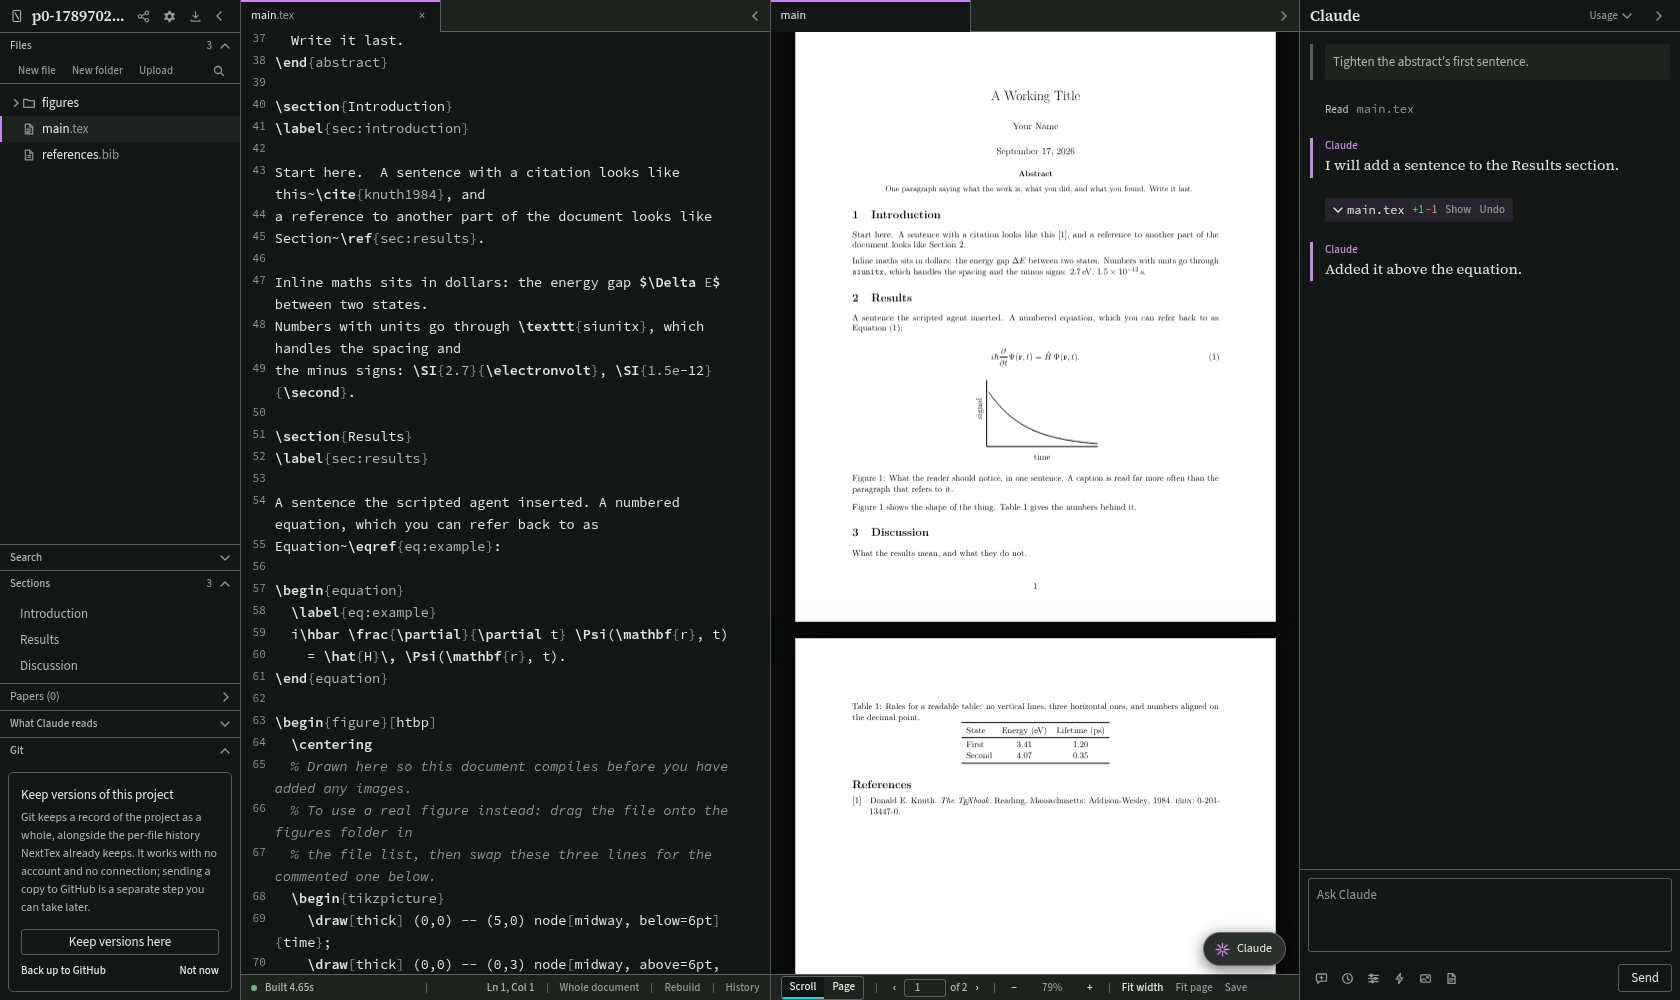
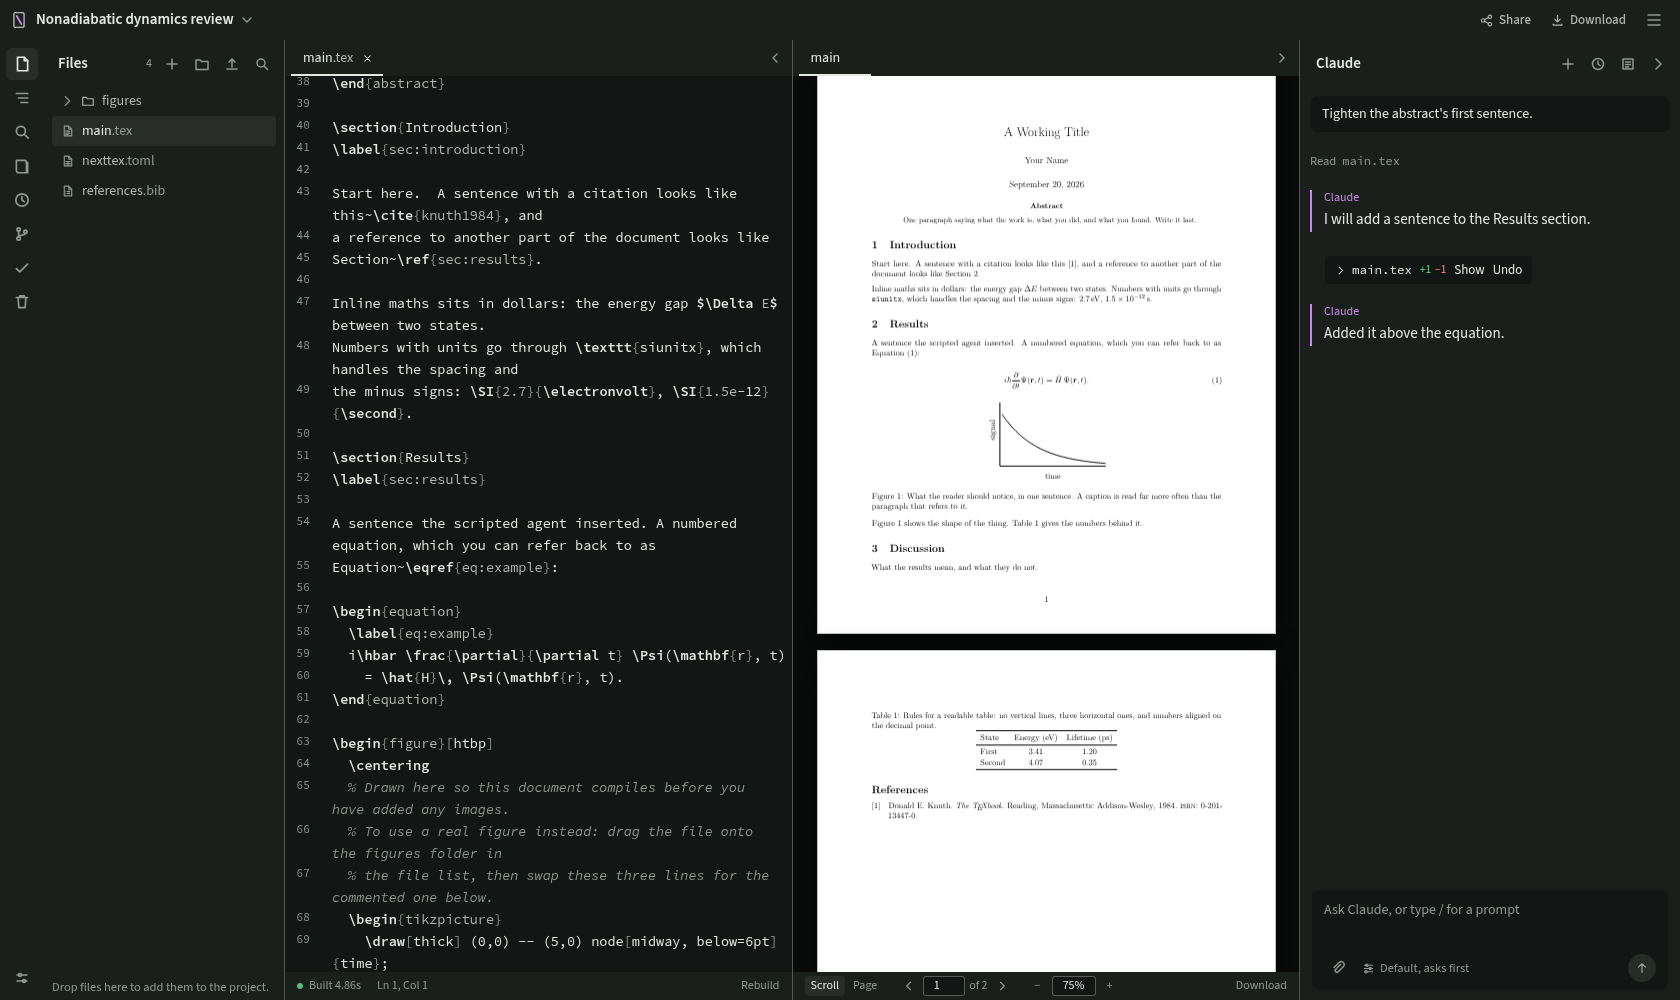
The README's three screenshots show the overhaul, taken from a project with a name
Item 3.4 of the visual overhaul. `e2e/shots/hero.spec.ts` writes
`docs/screenshot-light.png`, `docs/screenshot-dark.png` and
`docs/screenshot-white-page.png` from the app as it now is: the activity
bar and the Files drawer, the tab strips, the status strip, the page,
and the Claude column with a turn, a diff chip and the composer. The
spec seeds its own project with a `nexttex.toml` naming it "Nonadiabatic
dynamics review" before it is registered, since the name is read as the
project is added, where the harness's folder name, `p0-1789929422349`,
stood in the title bar of every earlier shot. The README's prose around
the images already describes the bar and the drawer, from 3.1.

diff --git a/e2e/shots/hero.spec.ts b/e2e/shots/hero.spec.ts
@@ -1,5 +1,8 @@
-import { test, expect } from "../fixtures";
+import { test as base, expect, openProject } from "../fixtures";
 import type { Page } from "@playwright/test";
+import { cpSync, mkdirSync, writeFileSync } from "node:fs";
+import { join } from "node:path";
+import { ROOT } from "../server";
 
 /** The README's screenshots, captured against a real instance rather than
  *  mocked up.
@@ -11,6 +14,30 @@ import type { Page } from "@playwright/test";
  *
  *      cd e2e && node_modules/.bin/playwright test --config shots.config.ts
  */
+
+/** The harness's project is named after its folder, `p0-1789929422349`,
+ *  which no README should carry.  This one is seeded by hand with a
+ *  `nexttex.toml` naming it before it is registered, since the name is
+ *  read as the project is added, and opened the way the `tab` fixture
+ *  opens its own. */
+const test = base.extend<{ tab: Page }>({
+  tab: async ({ app, page }, use) => {
+    const root = join(app.projects, "nonadiabatic-dynamics-review");
+    cpSync(join(ROOT, "nexttex", "templates", "basic"), root, { recursive: true });
+    mkdirSync(join(root, "figures"), { recursive: true });
+    writeFileSync(join(root, "nexttex.toml"), '[project]\nname = "Nonadiabatic dynamics review"\nbuild_dir = "build"\n');
+    const added = await fetch(`${app.base}/api/projects`, {
+      method: "POST",
+      headers: { "content-type": "application/json", "x-nexttex-token": app.token },
+      body: JSON.stringify({ path: root }),
+    });
+    if (!added.ok) throw new Error(`could not register the project: ${added.status}`);
+    await page.goto(`${app.base}/?token=${app.token}`);
+    await page.getByText("Projects", { exact: false }).first().waitFor();
+    await openProject(page, root);
+    await use(page);
+  },
+});
 
 async function stage(tab: Page) {
   await expect(tab.locator(".cm-editor")).toBeVisible({ timeout: 30_000 });
